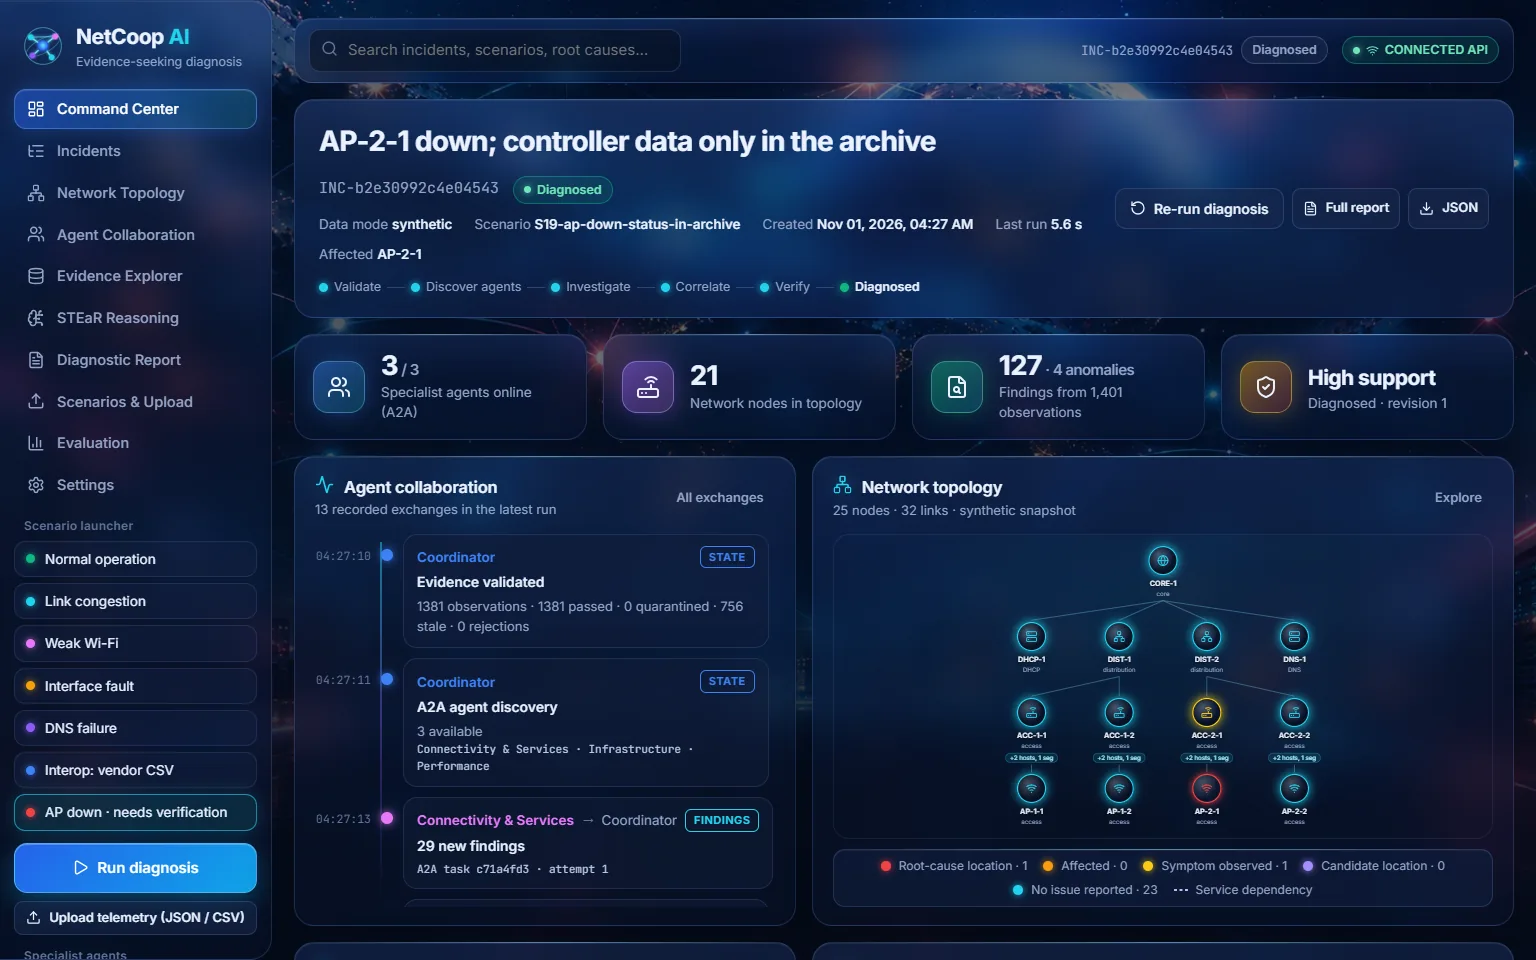
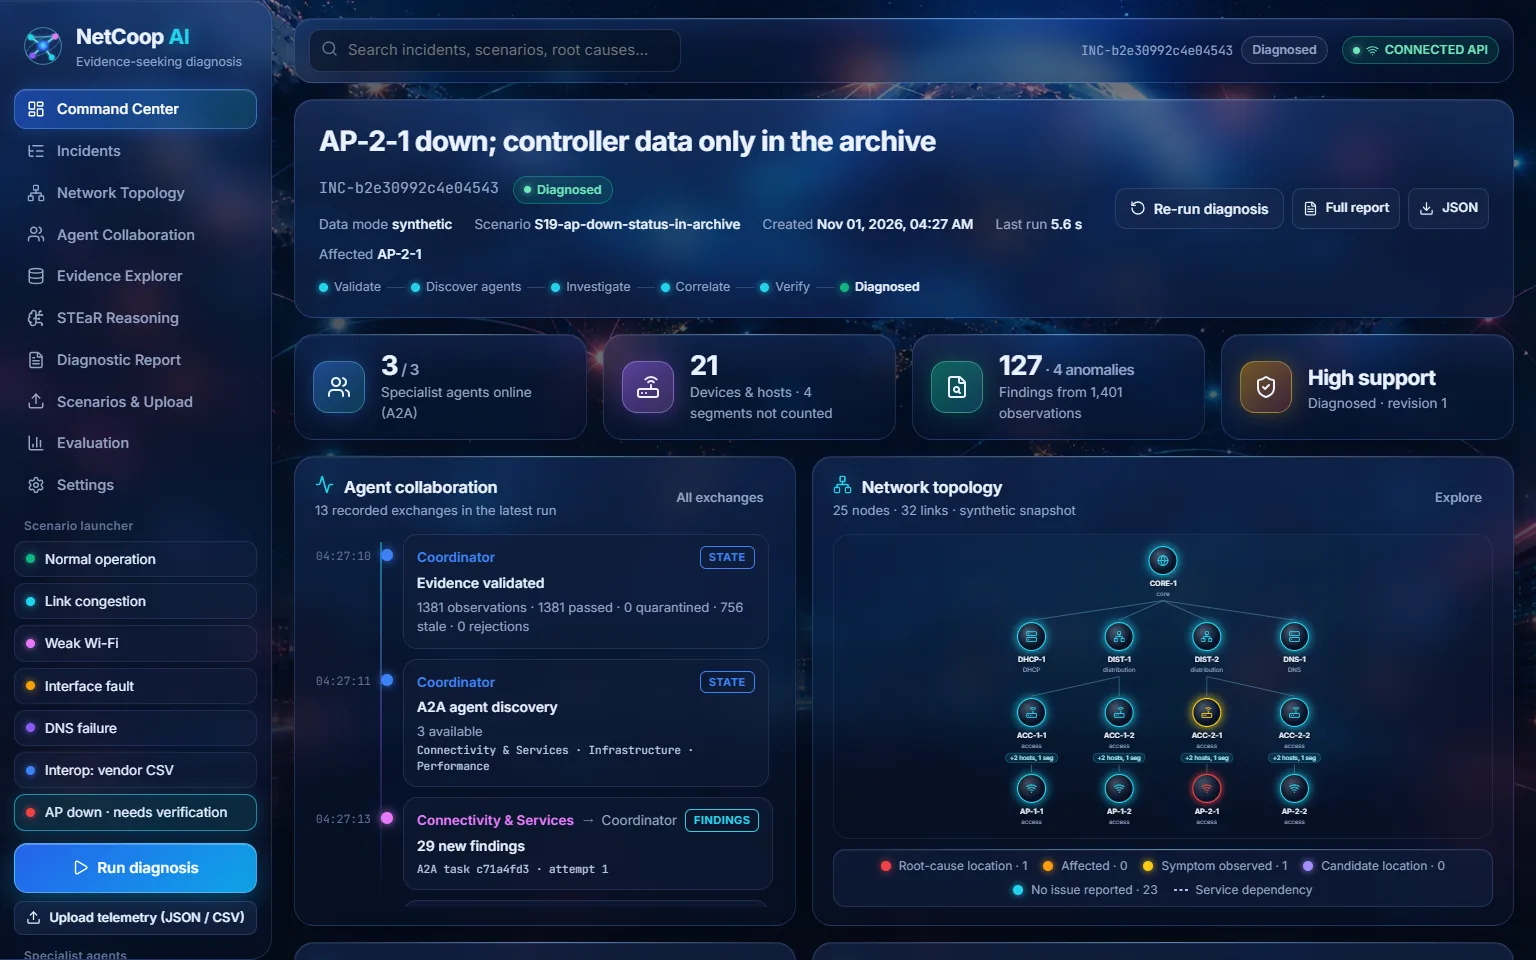
Frontend: node KPI states that segments are not counted; no hardcoded agent total

diff --git a/frontend/src/pages/CommandCenter.tsx b/frontend/src/pages/CommandCenter.tsx
@@ -117,9 +117,9 @@ export function CommandCenter() {
       </section>
 
       <div className="kpis">
-        <Kpi icon={<Users size={24} />} value={`${online}`} unit={`/ ${agents.length || 3}`} label="Specialist agents online (A2A)"
+        <Kpi icon={<Users size={24} />} value={`${online}`} unit={`/ ${agents.length}`} label="Specialist agents online (A2A)"
              title={agents.map((x) => `${x.agent_id}: ${x.status}`).join('\n')} />
-        <Kpi icon={<Router size={24} />} tone="violet" value={devices || '—'} label={topo ? 'Network nodes in topology' : 'No topology snapshot'}
+        <Kpi icon={<Router size={24} />} tone="violet" value={devices || '—'} label={topo ? `Devices & hosts · ${topo.nodes.length - devices} segments not counted` : 'No topology snapshot'}
              title={topo ? topo.topology_snapshot_id + ' (' + topo.kind + ') · excludes logical segments' : undefined} />
         <Kpi icon={<FileSearch size={24} />} tone="green" value={d.evidence_counts.findings} unit={'· ' + present + ' anomalies'}
              label={'Findings from ' + d.evidence_counts.observations.toLocaleString() + ' observations'} />
